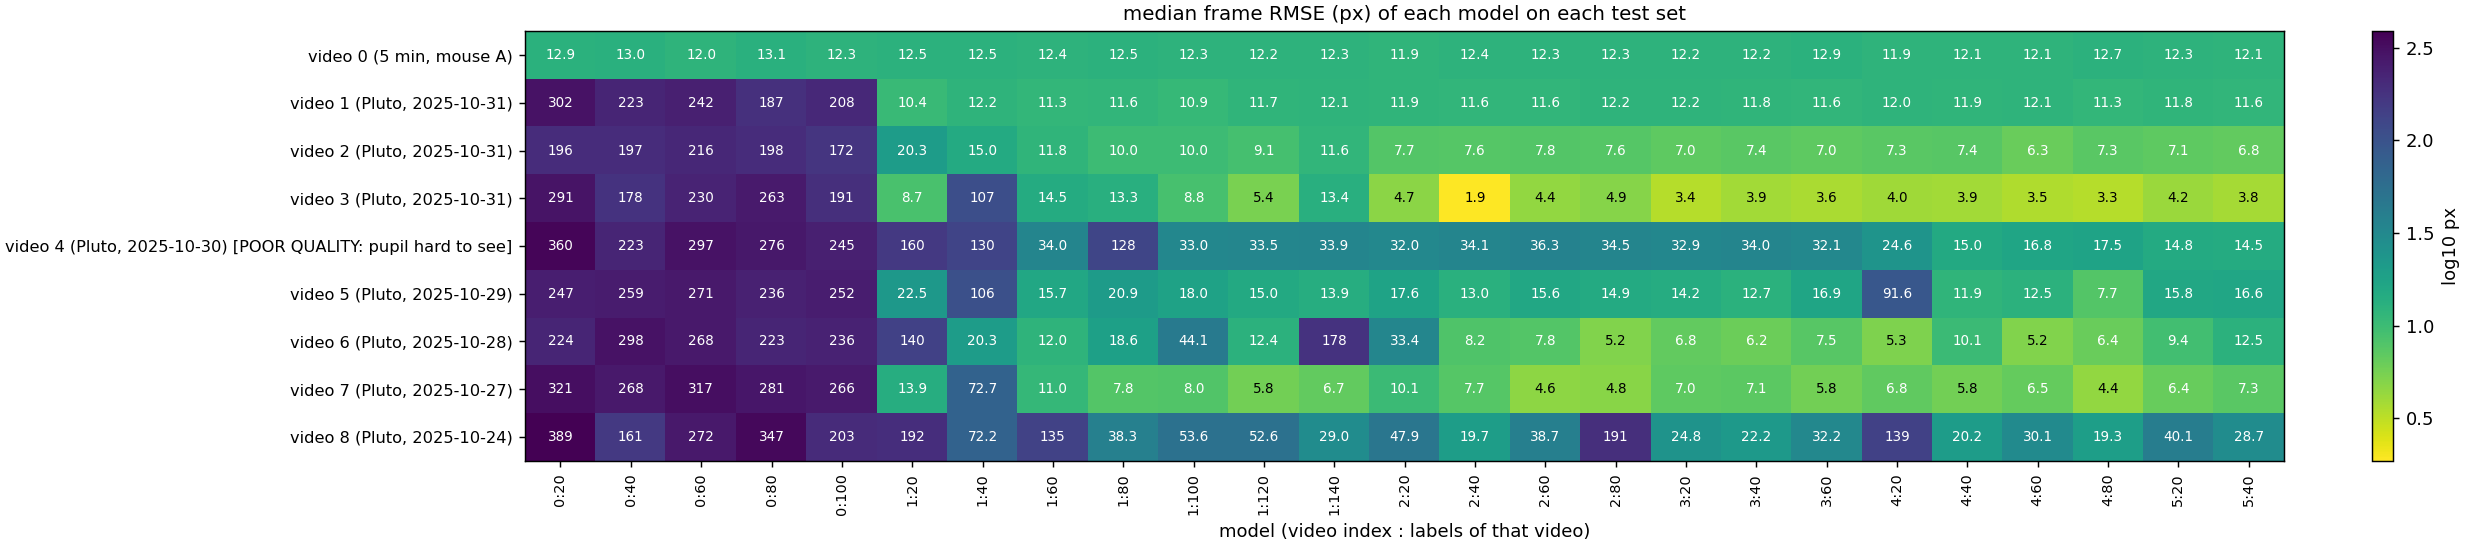
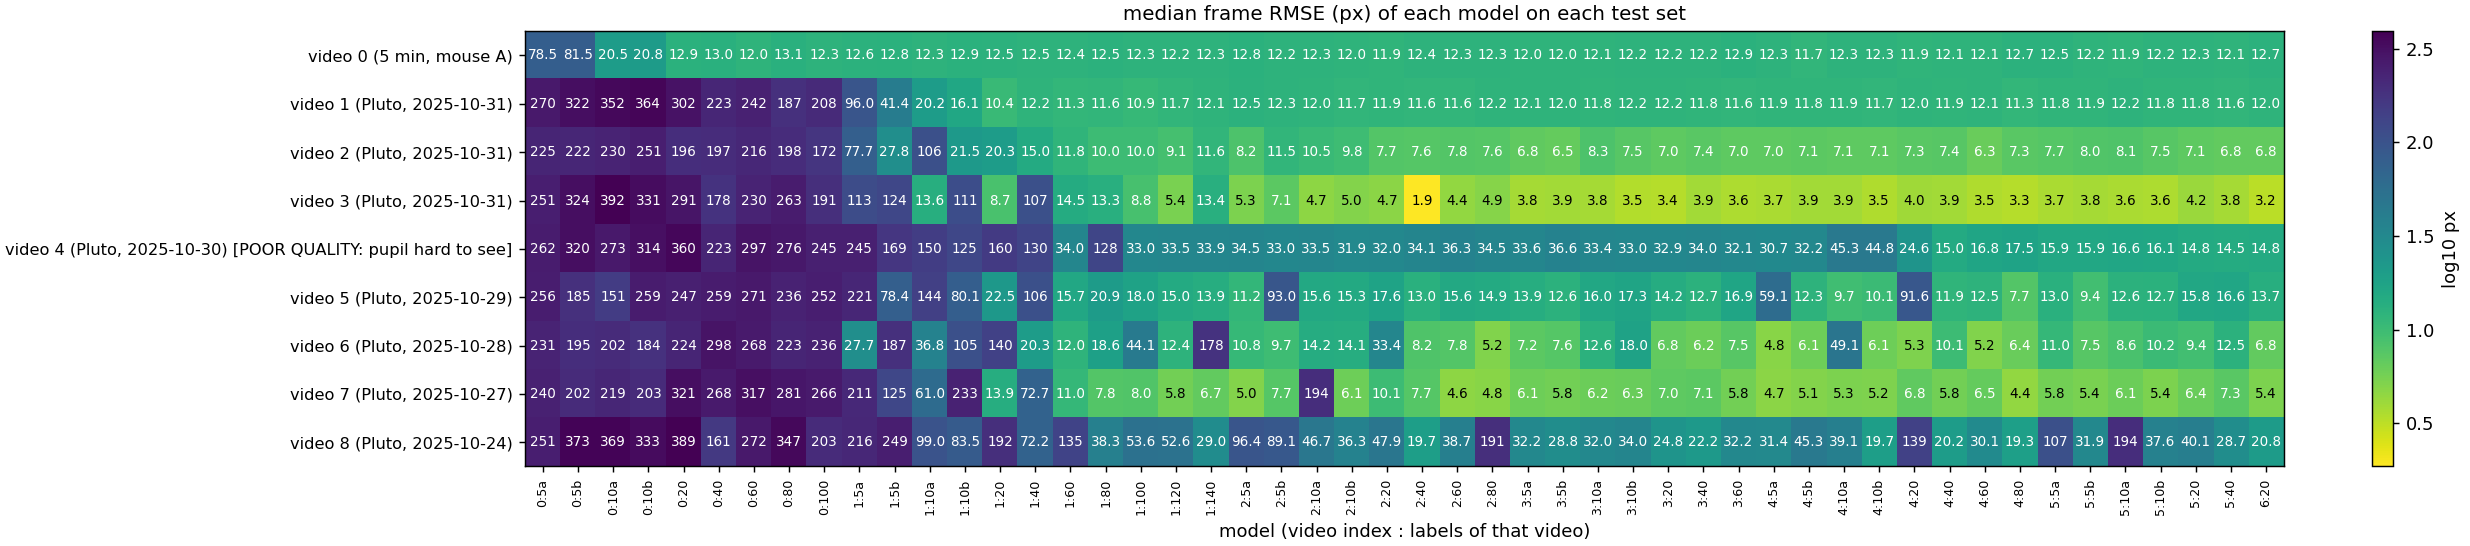
Cross-video figures redrawn with the 5 / 10-label subset models (open markers) and video-6 model 711; fix a column clash in the plot

diff --git a/v2_new_pupil_top_video_scaling/scripts/cross_video_eval.py b/v2_new_pupil_top_video_scaling/scripts/cross_video_eval.py
@@ -139,7 +139,7 @@ def plot(m):
     short = {v[0]: label_of(v[0]) for v in VIDEOS}
     mods = models()
     # positions come from the current model sequence (the csv keeps a model_idx from the run that scored the row)
-    m = m[m.shuffle.isin(mods.shuffle)].drop(columns=["model_idx"], errors="ignore").merge(mods[["shuffle", "model_idx", "subset"]], on="shuffle")
+    m = m[m.shuffle.isin(mods.shuffle)].drop(columns=["model_idx", "subset"], errors="ignore").merge(mods[["shuffle", "model_idx", "subset"]], on="shuffle")
     m["subset"] = m["subset"].fillna("")
     fig, ax = plt.subplots(figsize=(21, 8), constrained_layout=True)
     for tu in units:
